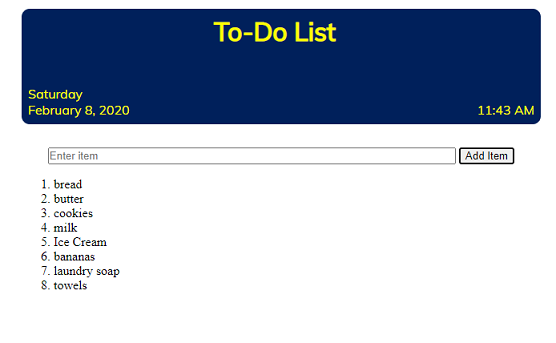
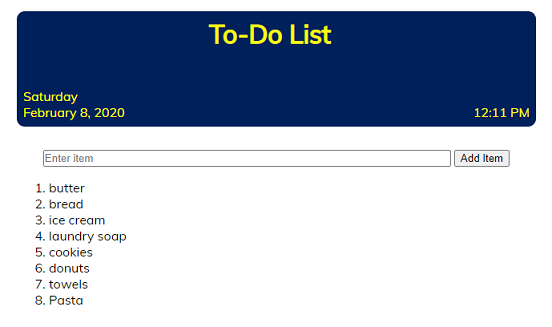
Next commit.

Changed region(s): [[0.0308, 0.0, 0.9855, 0.3976], [0.0616, 0.4281, 0.9239, 0.948]]

diff --git a/script.js b/script.js
@@ -89,6 +89,11 @@ function addItem() {
   console.log(todoItem);
 }
 
+// Mark to-do item as completed
+function completeItem() {
+  //
+}
+
 showDate();
 /*
 Commented out setInterval to keep from refreshing every second. Remove comment when completed.

diff --git a/index.html b/index.html
@@ -9,7 +9,7 @@
 
     <link rel="stylesheet" href="style.css" />
 
-    <script defer src="script.js"></script>
+    <script defer src="./script.js"></script>
 
     <title>To-Do List App</title>
   </head>

diff --git a/style.css b/style.css
@@ -64,3 +64,7 @@ body {
   margin-top: 1.8em;
   text-align: center;
 }
+
+#todo_list > li {
+  font-family: "Muli";
+}
